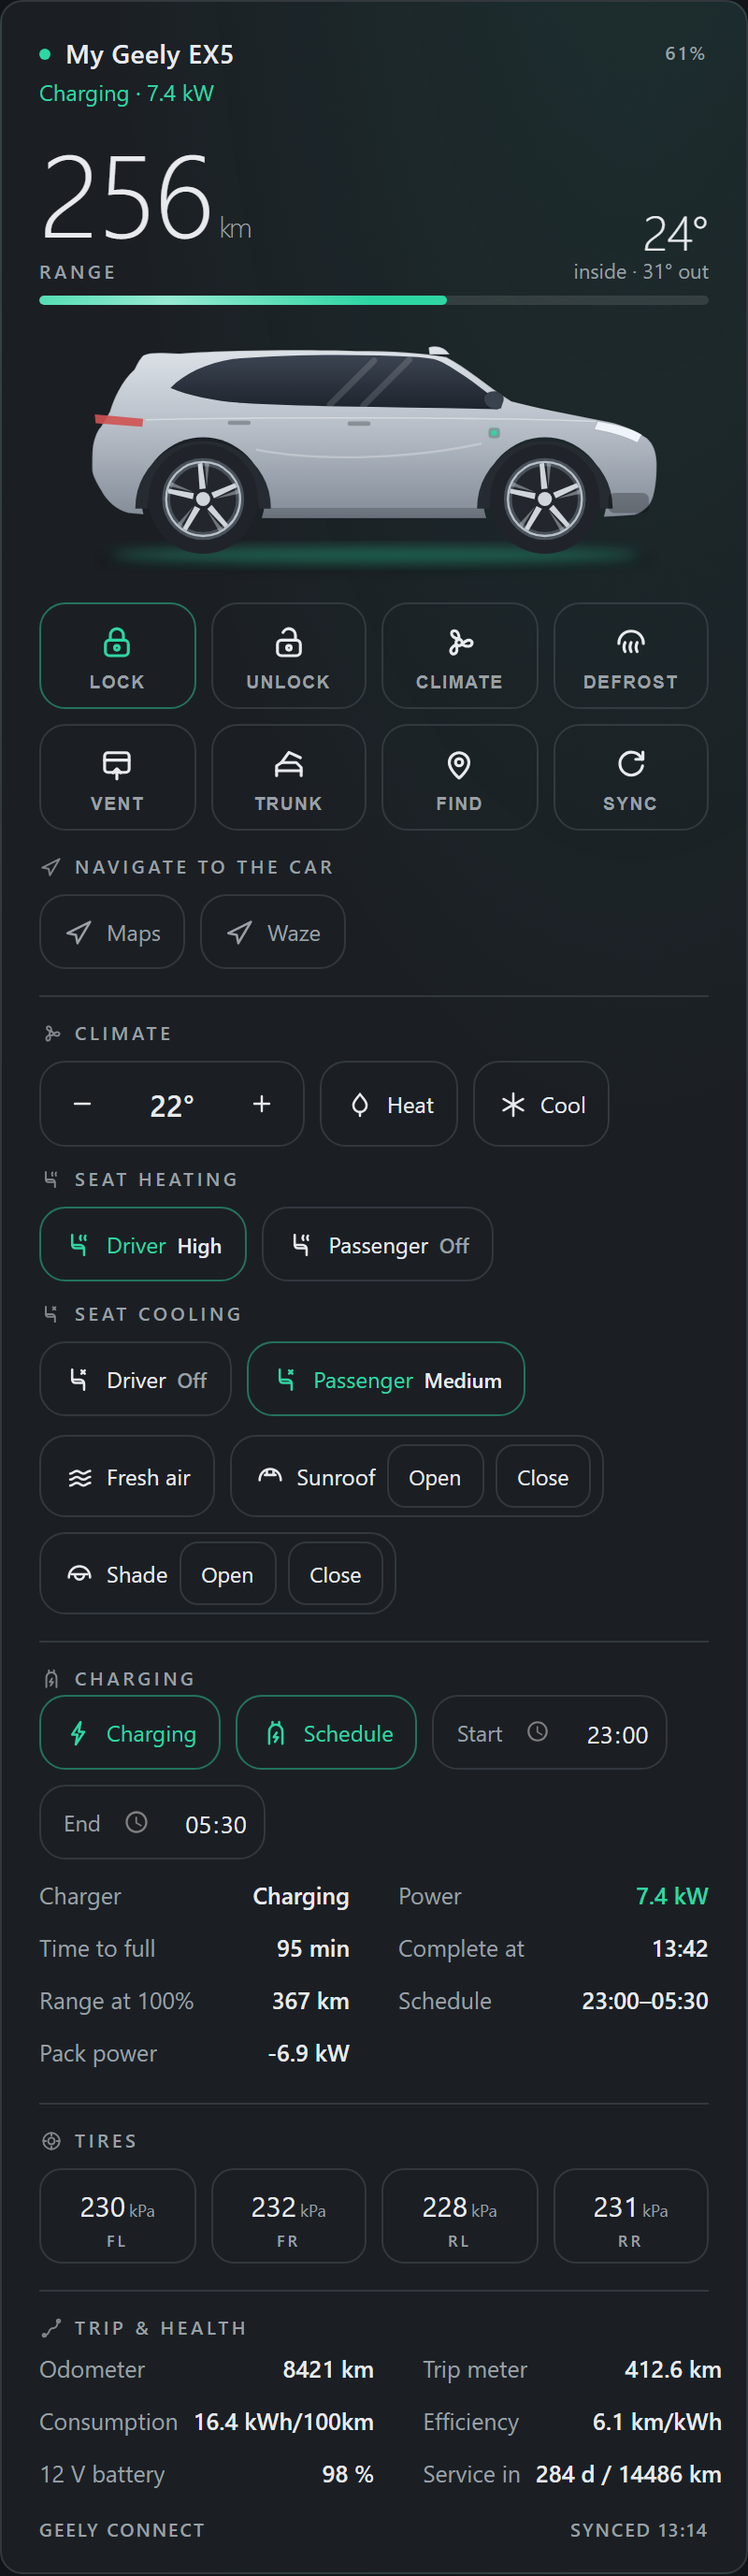
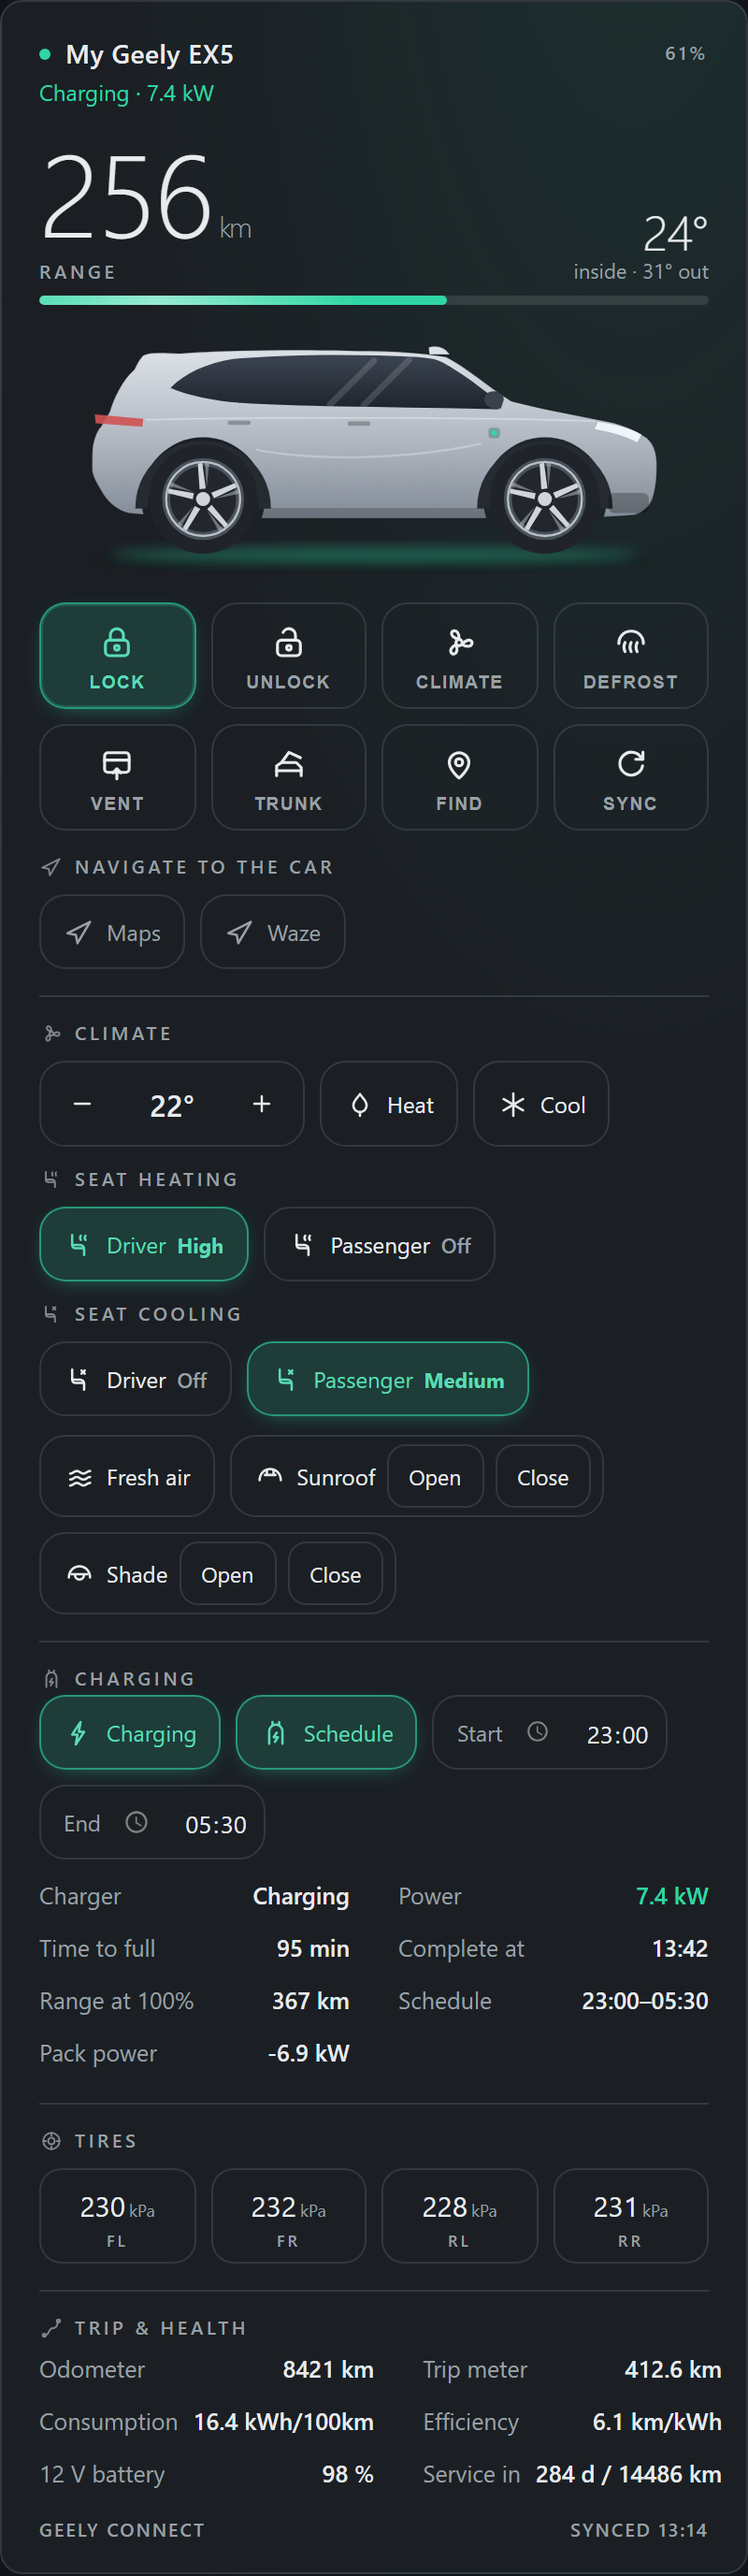
Make an active control look active
Every "on" state in the cards was a 45%-tinted outline and a coloured icon. On
the mini and strip cards, where the labels are hidden, that left a switched-on
button separated from an off one by a barely visible edge - and even on the big
card a running climate or a warm seat did not read at a glance.

Active controls now carry a filled accent tint, a firmer border, a soft lift off
the card, and a label that joins in rather than staying grey. The level on a seat
button - Low / Medium / High, the whole point of that control - gets the strongest
treatment on the card. Chips, cover pairs and the temperature box all follow the
same language, and amber keeps it too, so "active" and "needs a look" are told
apart by hue and never by intensity.

The label colour is mixed with the theme's OWN text colour rather than branched on
a media query: accent-on-tint that suits a dark theme washes out on a light one,
and a Home Assistant theme is not tied to the OS colour scheme, so a media query
would be answering the wrong question. The mix darkens the label against a light
background and keeps it bright against a dark one.

Pinned by two tests on computed style rather than stylesheet text: one asserts an
active control has a fill, a different border and a shadow where an inactive one
has none; the other asserts the label darkens when the theme's text colour is
dark, and stays recognisably the accent in both. That one needed a colour parser -
[…]

diff --git a/custom_components/geely_connect/geely-card.js b/custom_components/geely_connect/geely-card.js
@@ -140,6 +140,8 @@
 
   const ACCENT = "var(--geely-accent, #2fd6a4)";
   const AMBER = "var(--geely-warn, #e8a13a)";
+  const ON_TEXT = `color-mix(in srgb, ${ACCENT} 76%, var(--primary-text-color, #1c1c1e))`;
+  const WARN_TEXT = `color-mix(in srgb, ${AMBER} 76%, var(--primary-text-color, #1c1c1e))`;
 
   /* ------------------------------------------------------------ helpers -- */
 
@@ -493,8 +495,18 @@
       color: var(--secondary-text-color, #7a7f87); white-space: nowrap;
     }
     .chip svg { width: 12px; height: 12px; }
-    .chip.on { color: ${ACCENT}; border-color: color-mix(in srgb, ${ACCENT} 45%, transparent); }
-    .chip.warn { color: ${AMBER}; border-color: color-mix(in srgb, ${AMBER} 45%, transparent); }
+    .chip.on {
+      color: ${ON_TEXT};
+      border-color: color-mix(in srgb, ${ACCENT} 55%, transparent);
+      background: color-mix(in srgb, ${ACCENT} 15%, transparent);
+      font-weight: 600;
+    }
+    .chip.warn {
+      color: ${WARN_TEXT};
+      border-color: color-mix(in srgb, ${AMBER} 55%, transparent);
+      background: color-mix(in srgb, ${AMBER} 15%, transparent);
+      font-weight: 600;
+    }
     .actions { display: flex; gap: 8px; justify-content: space-between; }
     .act {
       flex: 1; display: flex; flex-direction: column; align-items: center; gap: 5px;
@@ -508,9 +520,30 @@
                 color: var(--secondary-text-color); }
     .act:active { transform: scale(.94); }
     .act:hover { border-color: color-mix(in srgb, currentColor 35%, transparent); }
-    .act.on { color: ${ACCENT}; border-color: color-mix(in srgb, ${ACCENT} 45%, transparent); }
-    .act.armed { color: ${AMBER}; border-color: ${AMBER}; animation: geely-arm 1s ease infinite; }
-    .act.armed span { color: ${AMBER}; }
+    /* Active state. It used to be a 45%-tinted outline and a coloured icon,
+     * which on the mini and strip cards - where the labels are hidden - left an
+     * "on" button almost indistinguishable from an off one. A state worth
+     * showing is worth showing properly: a filled tint so it reads as solid, a
+     * firmer edge, a soft lift, and the label joining in rather than staying
+     * grey. Same language for amber, so "active" and "needs a look" are told
+     * apart by hue and never by intensity. */
+    .act.on {
+      color: ${ON_TEXT};
+      border-color: color-mix(in srgb, ${ACCENT} 60%, transparent);
+      background: color-mix(in srgb, ${ACCENT} 16%, transparent);
+      box-shadow: inset 0 0 0 1px color-mix(in srgb, ${ACCENT} 22%, transparent),
+                  0 3px 14px -8px color-mix(in srgb, ${ACCENT} 90%, transparent);
+    }
+    .act.on span { color: ${ON_TEXT}; }
+    .act.on svg { opacity: 1; }
+    .act.on:hover { background: color-mix(in srgb, ${ACCENT} 24%, transparent); }
+    .act.armed {
+      color: ${WARN_TEXT};
+      border-color: ${AMBER};
+      background: color-mix(in srgb, ${AMBER} 18%, transparent);
+      animation: geely-arm 1s ease infinite;
+    }
+    .act.armed span { color: ${WARN_TEXT}; }
     .act[disabled] { opacity: .35; pointer-events: none; }
 
     /* Navigation links. Deliberately quieter than the command buttons beside
@@ -563,7 +596,11 @@
     .temp { display:flex; align-items:center; gap:2px; flex:none;
             border:1px solid var(--divider-color, rgba(120,130,140,.25));
             border-radius:14px; padding:2px; }
-    .temp.on { border-color: color-mix(in srgb, ${ACCENT} 45%, transparent); }
+    .temp.on {
+      border-color: color-mix(in srgb, ${ACCENT} 60%, transparent);
+      background: color-mix(in srgb, ${ACCENT} 12%, transparent);
+    }
+    .temp.on .tval { color: ${ON_TEXT}; }
     .temp .tval { min-width:52px; text-align:center; font-size:16px; font-weight:600;
                   font-variant-numeric: tabular-nums; }
     .csub { margin-top:10px; }
@@ -582,8 +619,15 @@
     .cbtn:active { transform: scale(.95); }
     .cbtn svg { width:17px; height:17px; }
     .cbtn b { font-weight:600; font-size:11px; color: var(--secondary-text-color); }
-    .cbtn.on { color:${ACCENT}; border-color: color-mix(in srgb, ${ACCENT} 45%, transparent); }
-    .cbtn.on b { color: var(--primary-text-color); }
+    .cbtn.on {
+      color:${ON_TEXT};
+      border-color: color-mix(in srgb, ${ACCENT} 60%, transparent);
+      background: color-mix(in srgb, ${ACCENT} 16%, transparent);
+      box-shadow: 0 3px 14px -8px color-mix(in srgb, ${ACCENT} 90%, transparent);
+    }
+    /* The level - Low / Medium / High - is the whole point of a seat button, so
+     * it gets the strongest treatment on the card. */
+    .cbtn.on b { color:${ON_TEXT}; font-weight: 700; }
     @media (hover: hover) {
       .cstep:hover, .cmini:hover { background: rgba(120,130,140,.15); }
     }
@@ -591,7 +635,11 @@
              border:1px solid var(--divider-color, rgba(120,130,140,.25));
              border-radius:14px; font-size:12px; }
     .cpair svg { width:17px; height:17px; }
-    .cpair.on { color:${ACCENT}; border-color: color-mix(in srgb, ${ACCENT} 45%, transparent); }
+    .cpair.on {
+      color:${ON_TEXT};
+      border-color: color-mix(in srgb, ${ACCENT} 60%, transparent);
+      background: color-mix(in srgb, ${ACCENT} 14%, transparent);
+    }
     .ctime { display:flex; align-items:center; gap:7px; padding:0 6px 0 12px;
              border:1px solid var(--divider-color, rgba(120,130,140,.25));
              border-radius:14px; font-size:12px; color: var(--secondary-text-color); }

diff --git a/tests/test_cards_in_a_browser.py b/tests/test_cards_in_a_browser.py
@@ -1149,3 +1149,70 @@ def test_a_module_load_still_finds_its_own_version():
     finally:
         browser.close()
         pw.stop()
+
+
+def _rgb(value):
+    """Chromium reports a resolved color-mix() as `color(srgb f f f)` rather than
+    `rgb(r, g, b)`, so accept both and return 0-255 triples either way."""
+    import re
+    inner = value[value.index("(") + 1:value.rindex(")")].strip()
+    if inner.startswith("srgb"):
+        parts = inner.split()[1:4]
+        return [round(float(x) * 255) for x in parts]
+    parts = re.split(r"[,\s/]+", inner)[:3]
+    return [round(float(x)) for x in parts]
+
+
+def test_an_active_control_is_filled_not_merely_outlined():
+    """The active state used to be a tinted outline and a coloured icon. On the
+    mini and strip cards the labels are hidden, so an "on" button differed from an
+    off one by a barely-visible edge. A state worth showing is worth showing:
+    assert the fill, the firmer border and the lift, on the computed style rather
+    than on the stylesheet text."""
+    script = """() => {
+        const el = document.createElement("geely-card");
+        document.body.appendChild(el);
+        el.setConfig({});
+        el.hass = window.mkHass({});   // doors locked -> LOCK is the active one
+        const of = (sel) => {
+            const n = el.shadowRoot.querySelector(sel);
+            const s = getComputedStyle(n);
+            return { bg: s.backgroundColor, border: s.borderTopColor,
+                     shadow: s.boxShadow };
+        };
+        return { on: of('[data-act="lock"]'), off: of('[data-act="find"]') };
+    }"""
+    got = _evaluate(script)
+    transparent = ("rgba(0, 0, 0, 0)", "transparent")
+    assert got["off"]["bg"] in transparent, got["off"]
+    assert got["on"]["bg"] not in transparent, (
+        "an active control still has no fill", got["on"])
+    assert got["on"]["border"] != got["off"]["border"], got
+    assert got["on"]["shadow"] not in ("none", ""), (
+        "the lift that separates it from the card is gone", got["on"])
+
+
+def test_the_active_label_darkens_on_a_light_theme_and_stays_bright_on_a_dark_one():
+    """The label sits on a tinted fill, so a colour picked for a dark theme is
+    washed out on a light one. It is mixed with the theme's OWN text colour rather
+    than branched on a media query - a Home Assistant theme is not tied to the OS
+    colour scheme, so a query would be answering the wrong question."""
+    def label_rgb(text_colour):
+        script = """(textColour) => {
+            const el = document.createElement("geely-card");
+            el.style.setProperty("--primary-text-color", textColour);
+            document.body.appendChild(el);
+            el.setConfig({});
+            el.hass = window.mkHass({});
+            const n = el.shadowRoot.querySelector('[data-act="lock"] span');
+            return getComputedStyle(n).color;
+        }"""
+        return _rgb(_evaluate(script, arg=text_colour))
+
+    on_dark = label_rgb("#e8eaed")
+    on_light = label_rgb("#1c1c1e")
+    assert sum(on_light) < sum(on_dark), (
+        "the active label must darken against a light theme", on_dark, on_light)
+    # And it has to stay recognisably the accent, not collapse to plain text.
+    assert on_dark[1] > on_dark[0] and on_dark[1] > on_dark[2], on_dark
+    assert on_light[1] > on_light[0] and on_light[1] > on_light[2], on_light
